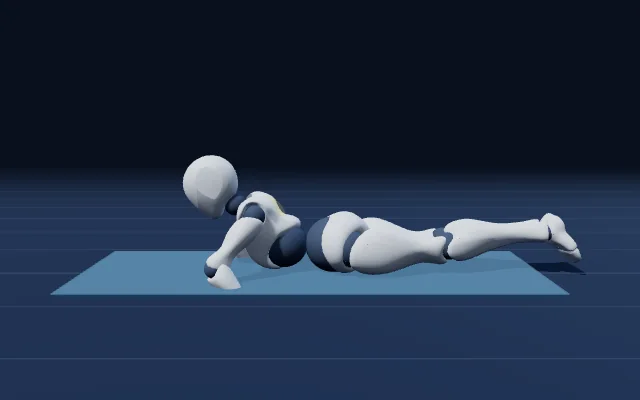
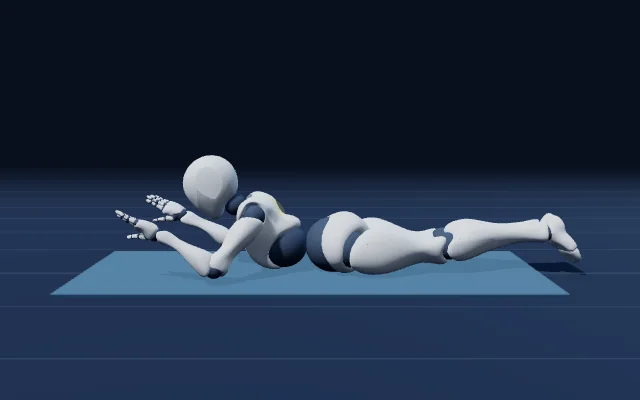
Fix biomechanical forearm/limb poses on plank, body_saw, cobra, side_plank_star, row, sorensen, dips, hanging_raise (v3)

Changed region(s): [[0.1562, 0.48, 0.375, 0.72], [0.375, 0.63, 0.4062, 0.66]]

diff --git a/tracker/studio-3d-catalog.js b/tracker/studio-3d-catalog.js
@@ -105,11 +105,11 @@
 
   const BASE_FOREARM_PLANK = mergeBones(BASE_PRONE_PLANK, {
     "mixamorig:Hips": [1.46, 0, 0],
-    "mixamorig:LeftArm": [0.15, -1.48, 0.05],
-    "mixamorig:LeftForeArm": [0, -0.15, -1.42],
+    "mixamorig:LeftArm": [0.04, -1.50, 0.08],
+    "mixamorig:LeftForeArm": [0, 0.08, 1.48],
     "mixamorig:LeftHand": [0, 0, 0],
-    "mixamorig:RightArm": [0.15, 1.48, -0.05],
-    "mixamorig:RightForeArm": [0, 0.15, 1.42],
+    "mixamorig:RightArm": [0.04, 1.50, -0.08],
+    "mixamorig:RightForeArm": [0, -0.08, -1.48],
     "mixamorig:RightHand": [0, 0, 0]
   });
 
@@ -232,10 +232,10 @@
       cameras: CAM_FLOOR,
       defaultAngle: "side",
       keyframes: loopKF(
-        [0, 0.30, -0.08],
+        [0, 0.34, -0.08],
         BASE_FOREARM_PLANK,
-        [0, 0.32, -0.08],
-        mergeBones(BASE_FOREARM_PLANK, { "mixamorig:Spine": [0.06, 0, 0], "mixamorig:Spine1": [0.05, 0, 0] }),
+        [0, 0.355, -0.08],
+        mergeBones(BASE_FOREARM_PLANK, { "mixamorig:Spine": [0.05, 0, 0], "mixamorig:Spine1": [0.04, 0, 0] }),
         false
       )
     },
@@ -282,10 +282,10 @@
       cameras: CAM_FLOOR,
       defaultAngle: "side",
       keyframes: loopKF(
-        [0, 0.30, 0.04],
+        [0, 0.34, 0.04],
         BASE_FOREARM_PLANK,
-        [0, 0.28, -0.16],
-        mergeBones(BASE_FOREARM_PLANK, { "mixamorig:LeftArm": [0.15, -1.78, 0.05], "mixamorig:RightArm": [0.15, 1.78, -0.05] }),
+        [0, 0.32, -0.14],
+        mergeBones(BASE_FOREARM_PLANK, { "mixamorig:LeftArm": [0.04, -1.78, 0.08], "mixamorig:RightArm": [0.04, 1.78, -0.08] }),
         false
       )
     },
@@ -404,7 +404,7 @@
         [0, 0.44, 0],
         mergeBones(BASE_SIDE_PLANK, {
           "mixamorig:LeftArm": [0, 0, 0.10],
-          "mixamorig:LeftUpLeg": [0, 0, -0.52]
+          "mixamorig:LeftUpLeg": [0, 0, 0.52]
         }),
         true
       )
@@ -701,19 +701,19 @@
       cameras: CAM_FLOOR,
       defaultAngle: "angle45",
       keyframes: loopKF(
-        [0, 0.54, -0.10],
+        [0, 0.56, -0.16],
         mergeBones(BASE_PRONE_PLANK, {
           "mixamorig:Hips": [0.96, 0, 0],
-          "mixamorig:LeftArm": [0, 0.15, -1.35],
-          "mixamorig:LeftForeArm": [0, 1.2, 0],
+          "mixamorig:LeftArm": [0, 0.35, -1.42],
+          "mixamorig:LeftForeArm": [0, -1.45, 0],
           "mixamorig:LeftUpLeg": [0.02, 0, -0.18],
           "mixamorig:RightUpLeg": [0.02, 0, 0.18]
         }),
-        [0, 0.44, 0.02],
+        [0, 0.46, -0.04],
         mergeBones(BASE_PRONE_PLANK, {
-          "mixamorig:Hips": [1.14, 0, 0],
-          "mixamorig:LeftArm": [0, 0.15, -1.35],
-          "mixamorig:LeftForeArm": [0, 1.2, 0],
+          "mixamorig:Hips": [1.12, 0, 0],
+          "mixamorig:LeftArm": [0, 0.35, -1.42],
+          "mixamorig:LeftForeArm": [0, -1.45, 0],
           "mixamorig:RightArm": [0.15, 0.72, 0.62],
           "mixamorig:RightForeArm": [0, 1.48, 0],
           "mixamorig:LeftUpLeg": [0.02, 0, -0.18],
@@ -913,19 +913,19 @@
       cameras: CAM_FLOOR,
       defaultAngle: "side",
       keyframes: loopKF(
-        [0, 0.24, 0.20],
+        [0, 0.20, 0.12],
         mergeBones(BASE_SUPINE, {
           "mixamorig:Hips": [-1.36, 0, 0],
           "mixamorig:LeftArm": [0, -1.48, 0],
           "mixamorig:RightArm": [0, 1.48, 0]
         }),
-        [0, 0.44, 0.20],
+        [0, 0.38, 0.12],
         mergeBones(BASE_SUPINE, {
-          "mixamorig:Hips": [-1.18, 0, 0],
-          "mixamorig:LeftArm": [0, -0.55, -0.70],
-          "mixamorig:LeftForeArm": [0, -1.55, 0],
-          "mixamorig:RightArm": [0, 0.55, 0.70],
-          "mixamorig:RightForeArm": [0, 1.55, 0]
+          "mixamorig:Hips": [-1.22, 0, 0],
+          "mixamorig:LeftArm": [0, -0.58, -0.68],
+          "mixamorig:LeftForeArm": [0, -1.52, 0],
+          "mixamorig:RightArm": [0, 0.58, 0.68],
+          "mixamorig:RightForeArm": [0, 1.52, 0]
         }),
         true
       )
@@ -1343,20 +1343,20 @@
         [0, 0.48, -0.45],
         mergeBones(BASE_PRONE_PLANK, {
           "mixamorig:Hips": [1.57, 0, 0],
-          "mixamorig:LeftArm": [0, -0.85, -0.65],
-          "mixamorig:LeftForeArm": [0, -1.65, 0],
-          "mixamorig:RightArm": [0, 0.85, 0.65],
-          "mixamorig:RightForeArm": [0, 1.65, 0],
+          "mixamorig:LeftArm": [0, -1.15, -0.55],
+          "mixamorig:LeftForeArm": [0, 0, 1.75],
+          "mixamorig:RightArm": [0, 1.15, 0.55],
+          "mixamorig:RightForeArm": [0, 0, -1.75],
           "mixamorig:LeftFoot": [0.35, 0, 0],
           "mixamorig:RightFoot": [0.35, 0, 0]
         }),
         [0, 0.49, -0.45],
         mergeBones(BASE_PRONE_PLANK, {
           "mixamorig:Hips": [1.55, 0, 0],
-          "mixamorig:LeftArm": [0, -0.85, -0.65],
-          "mixamorig:LeftForeArm": [0, -1.65, 0],
-          "mixamorig:RightArm": [0, 0.85, 0.65],
-          "mixamorig:RightForeArm": [0, 1.65, 0],
+          "mixamorig:LeftArm": [0, -1.15, -0.55],
+          "mixamorig:LeftForeArm": [0, 0, 1.75],
+          "mixamorig:RightArm": [0, 1.15, 0.55],
+          "mixamorig:RightForeArm": [0, 0, -1.75],
           "mixamorig:LeftFoot": [0.35, 0, 0],
           "mixamorig:RightFoot": [0.35, 0, 0]
         }),
@@ -1444,21 +1444,21 @@
       cameras: CAM_HIGH,
       defaultAngle: "angle45",
       keyframes: loopKF(
-        [0, 0.64, 0],
+        [0, 0.68, 0],
         mergeBones(BASE_STAND, {
-          "mixamorig:Hips": [0.14, 0, 0],
-          "mixamorig:LeftArm": [0, 0, -1.32],
-          "mixamorig:RightArm": [0, 0, 1.32],
+          "mixamorig:Hips": [0.12, 0, 0],
+          "mixamorig:LeftArm": [0, 0, -1.28],
+          "mixamorig:RightArm": [0, 0, 1.28],
           "mixamorig:LeftLeg": [1.35, 0, 0],
           "mixamorig:RightLeg": [1.35, 0, 0]
         }),
-        [0, 0.40, 0],
+        [0, 0.52, 0],
         mergeBones(BASE_STAND, {
-          "mixamorig:Hips": [0.22, 0, 0],
-          "mixamorig:LeftArm": [0.20, 0.65, -0.72],
-          "mixamorig:LeftForeArm": [0, -1.55, 0],
-          "mixamorig:RightArm": [0.20, -0.65, 0.72],
-          "mixamorig:RightForeArm": [0, 1.55, 0],
+          "mixamorig:Hips": [0.18, 0, 0],
+          "mixamorig:LeftArm": [0.16, 0.55, -0.68],
+          "mixamorig:LeftForeArm": [0, -1.35, 0],
+          "mixamorig:RightArm": [0.16, -0.55, 0.68],
+          "mixamorig:RightForeArm": [0, 1.35, 0],
           "mixamorig:LeftLeg": [1.45, 0, 0],
           "mixamorig:RightLeg": [1.45, 0, 0]
         }),
@@ -1481,7 +1481,7 @@
         "3/3 הורד לאט בשליטה מלאה ועצור לרגע לפני החזרה הבאה."
       ],
       cameras: CAM_HIGH,
-      defaultAngle: "side",
+      defaultAngle: "angle45",
       keyframes: loopKF(
         [0, 1.14, 0.04],
         mergeBones(BASE_STAND, {

diff --git a/tracker/studio-3d.js b/tracker/studio-3d.js
@@ -803,12 +803,12 @@
       scene.add(mat);
       const woodMat = new THREE.MeshStandardMaterial({ color: 0x26354d, roughness: 0.75, metalness: 0.08 });
       const top = new THREE.Mesh(new THREE.BoxGeometry(1.25, 0.05, 0.75), woodMat);
-      top.position.set(0, 0.78, 0.25);
+      top.position.set(0, 0.90, 0.18);
       top.castShadow = true;
       scene.add(top);
-      [[-0.56, -0.06], [0.56, -0.06], [-0.56, 0.56], [0.56, 0.56]].forEach(([lx, lz]) => {
-        const leg = new THREE.Mesh(new THREE.BoxGeometry(0.055, 0.76, 0.055), woodMat);
-        leg.position.set(lx, 0.38, lz);
+      [[-0.56, -0.14], [0.56, -0.14], [-0.56, 0.50], [0.56, 0.50]].forEach(([lx, lz]) => {
+        const leg = new THREE.Mesh(new THREE.BoxGeometry(0.055, 0.88, 0.055), woodMat);
+        leg.position.set(lx, 0.44, lz);
         scene.add(leg);
       });
     } else if (propType === "chairs_dips") {

diff --git a/tracker/media-manifest.js b/tracker/media-manifest.js
@@ -476,10 +476,10 @@ window.ATLAS_MEDIA_MANIFEST = {
   "hanging_raise": {
     "type": "3d",
     "poster": "./assets/exercises/hanging_raise.poster.webp",
-    "defaultAngle": "side",
+    "defaultAngle": "angle45",
     "angles": [
-      "side",
       "angle45",
+      "side",
       "front",
       "top"
     ]

diff --git a/tracker/sw.js b/tracker/sw.js
@@ -1,4 +1,4 @@
-const CACHE_NAME = "atlas-physio-offline-v2";
+const CACHE_NAME = "atlas-physio-offline-v3";
 const PRECACHE_URLS = [
   "./",
   "./index.html",
